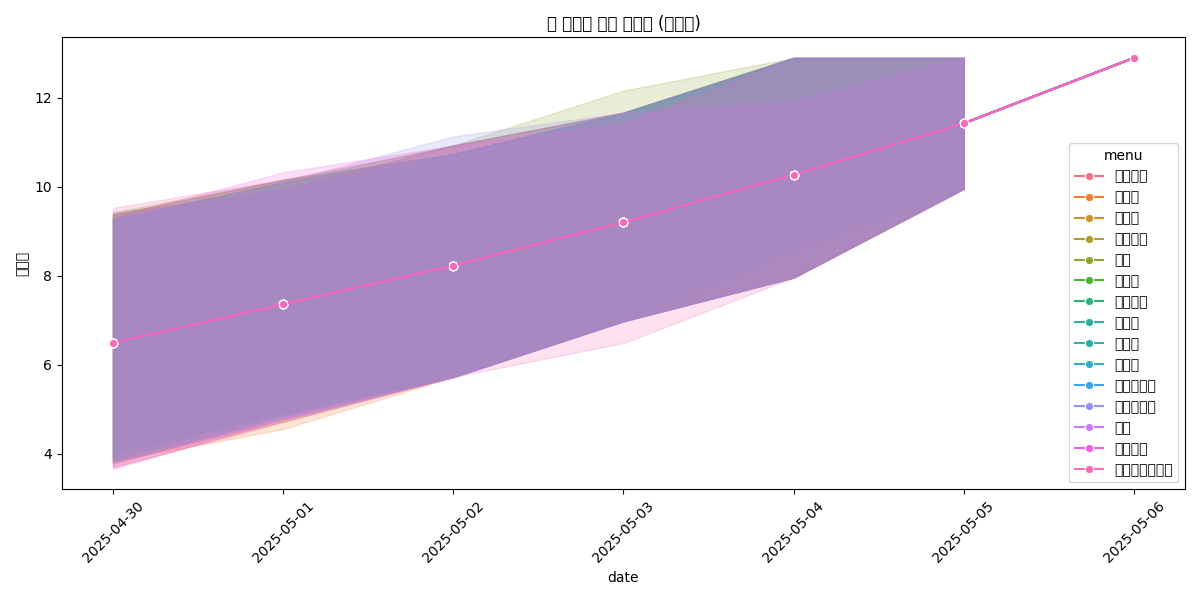
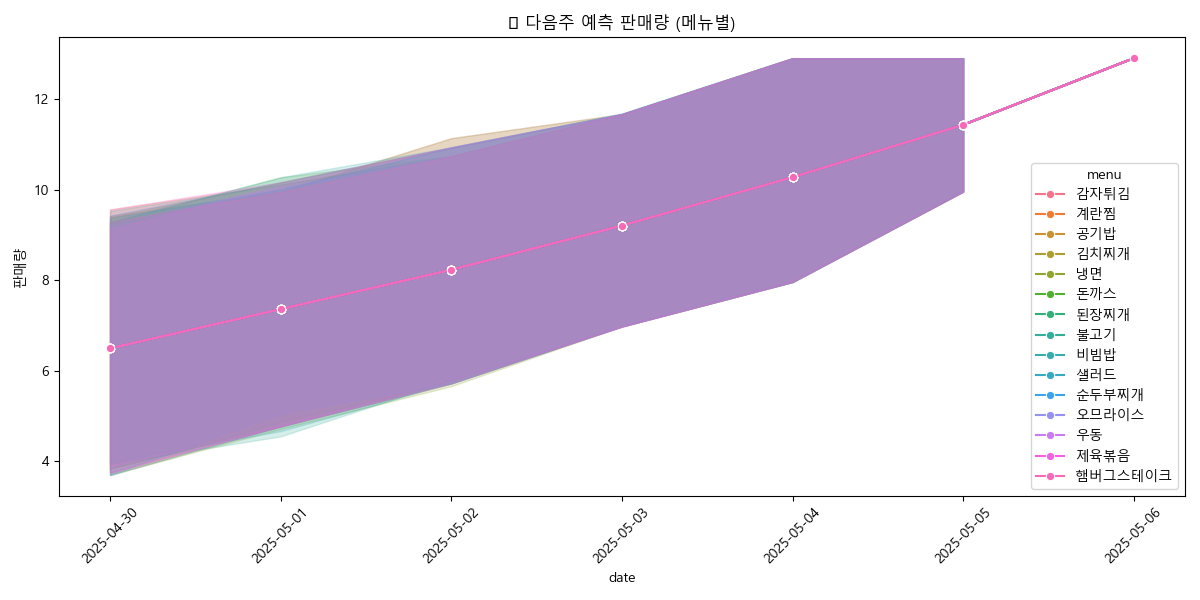
FEATURE: 다음주 예측량 시각화 한글깨짐>>폰트해결

diff --git a/visualization/data_visualization.py b/visualization/data_visualization.py
@@ -7,7 +7,12 @@ import matplotlib.font_manager as fm
 import seaborn as sns
 
 
+
 def plot_next_week_prediction():
+    # 한글 폰트 설정
+    plt.rcParams["font.family"] = "Malgun Gothic"
+    plt.rcParams["axes.unicode_minus"] = False
+
     df = pd.read_csv("./results/next_week_only.csv")
     df["date"] = pd.to_datetime(df["date"])
 
